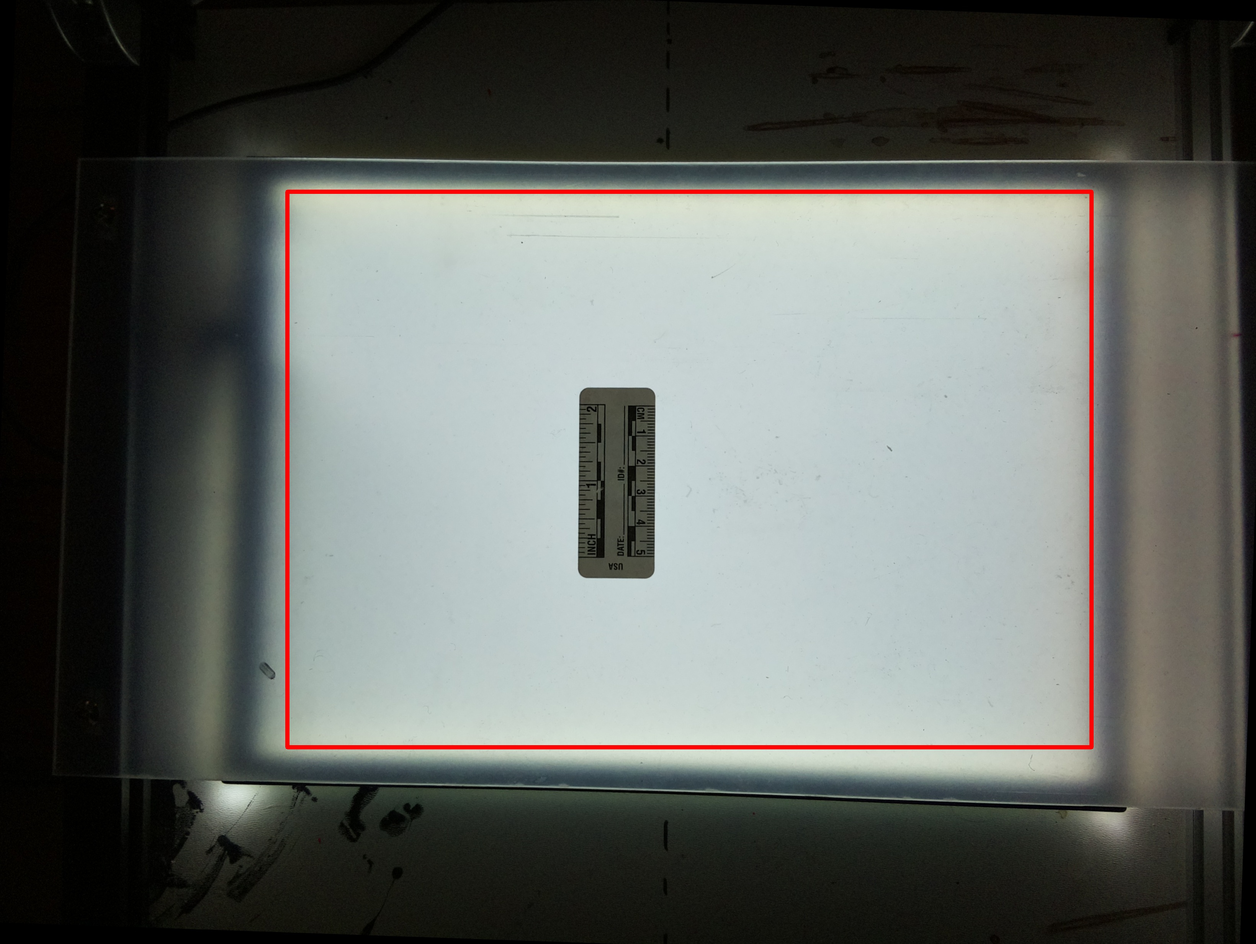
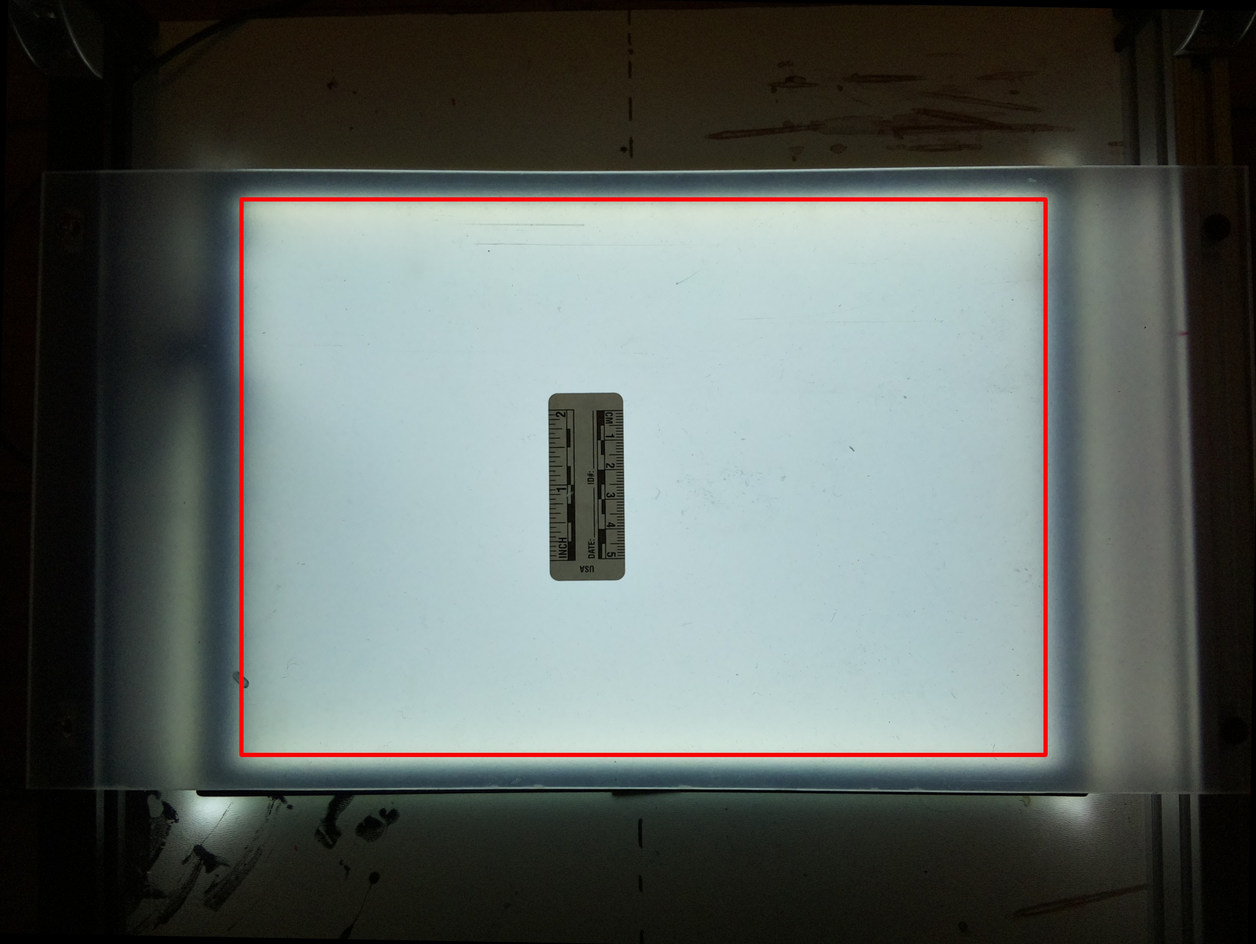
test: add new raw coordinates

diff --git a/core/draw_red_rectangles.py b/core/draw_red_rectangles.py
@@ -9,7 +9,7 @@ def draw_red_rectangle(image_path):
             print("Error: Unable to load image")
             return
 
-        x, y, width, height = 750, 500, 2100, 1450
+        x, y, width, height = 630, 520, 2100, 1450
         cv2.rectangle(image, (x, y), (x + width, y + height), (0, 0, 255), 10)
 
         base, ext = os.path.splitext(image_path)
